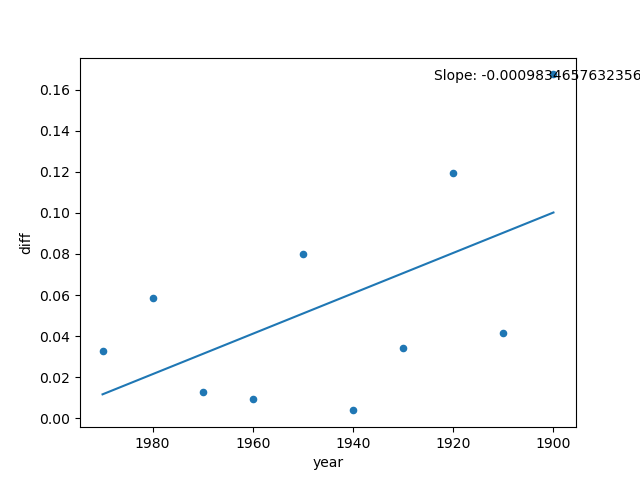
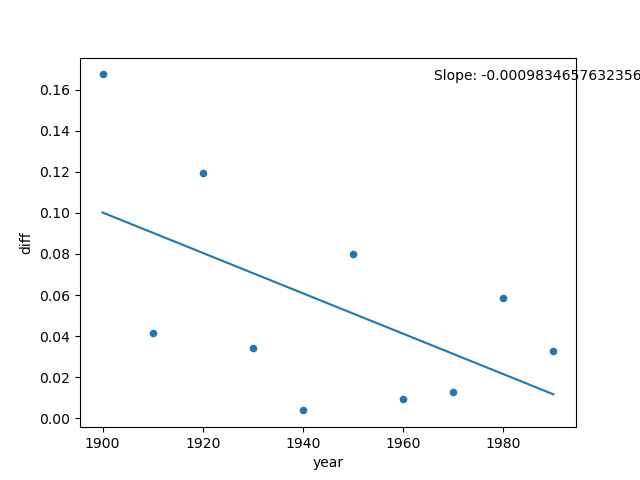
b

diff --git a/do_experiment.py b/do_experiment.py
@@ -4,7 +4,6 @@ import numpy
 import pandas as pd
 import matplotlib.pyplot as plt
 import scipy
-import seaborn as sns
 
 
 def run_experiment(occupations, start_year, end_year):
@@ -102,11 +101,9 @@ def plot_difference(df, label_1, label_2):
     label = 'Slope: ' + str(z[0])
     ax.text(0.95,0.95, label, horizontalalignment='center', verticalalignment='center', transform=ax.transAxes)
     df.trendline.sort_index(ascending=False).plot(label=label, ax=ax)
-    plt.gca().invert_xaxis()
+    #plt.gca().invert_xaxis()
     plt.savefig("uhhh.png")
 
-    sns.regplot(df['year'], df['diff'])
-    sns.savefig("sb.png")
 
     
 
